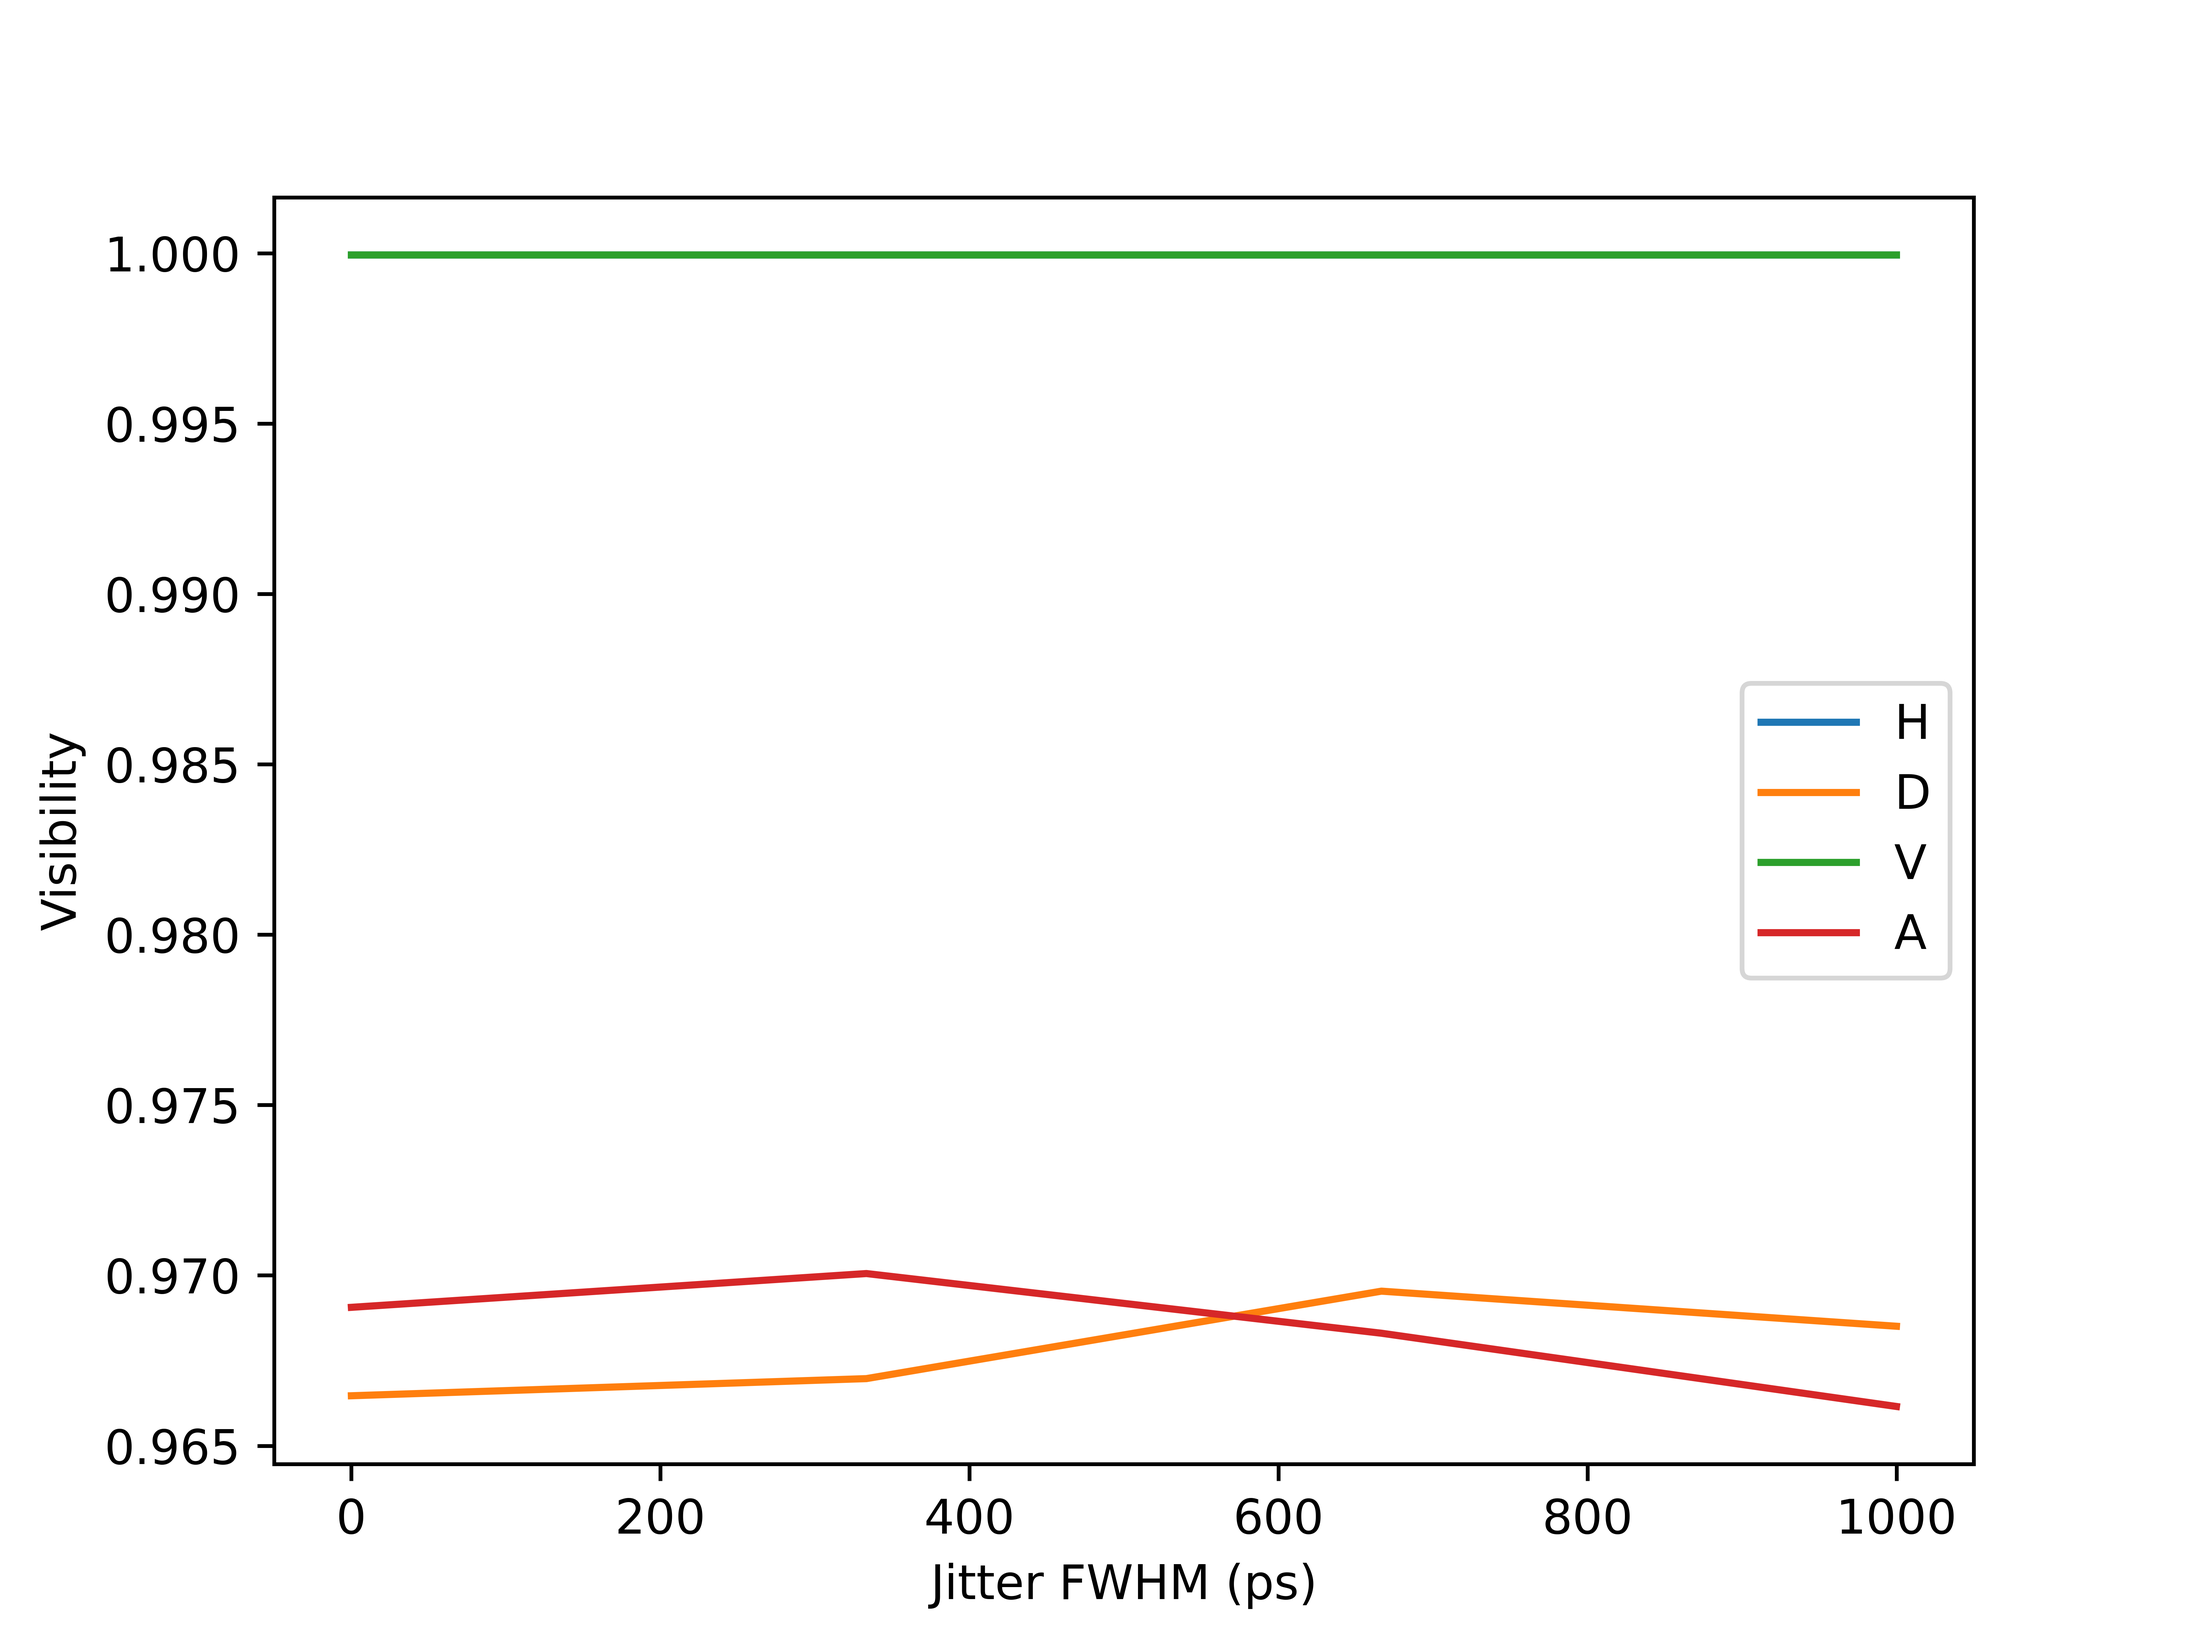
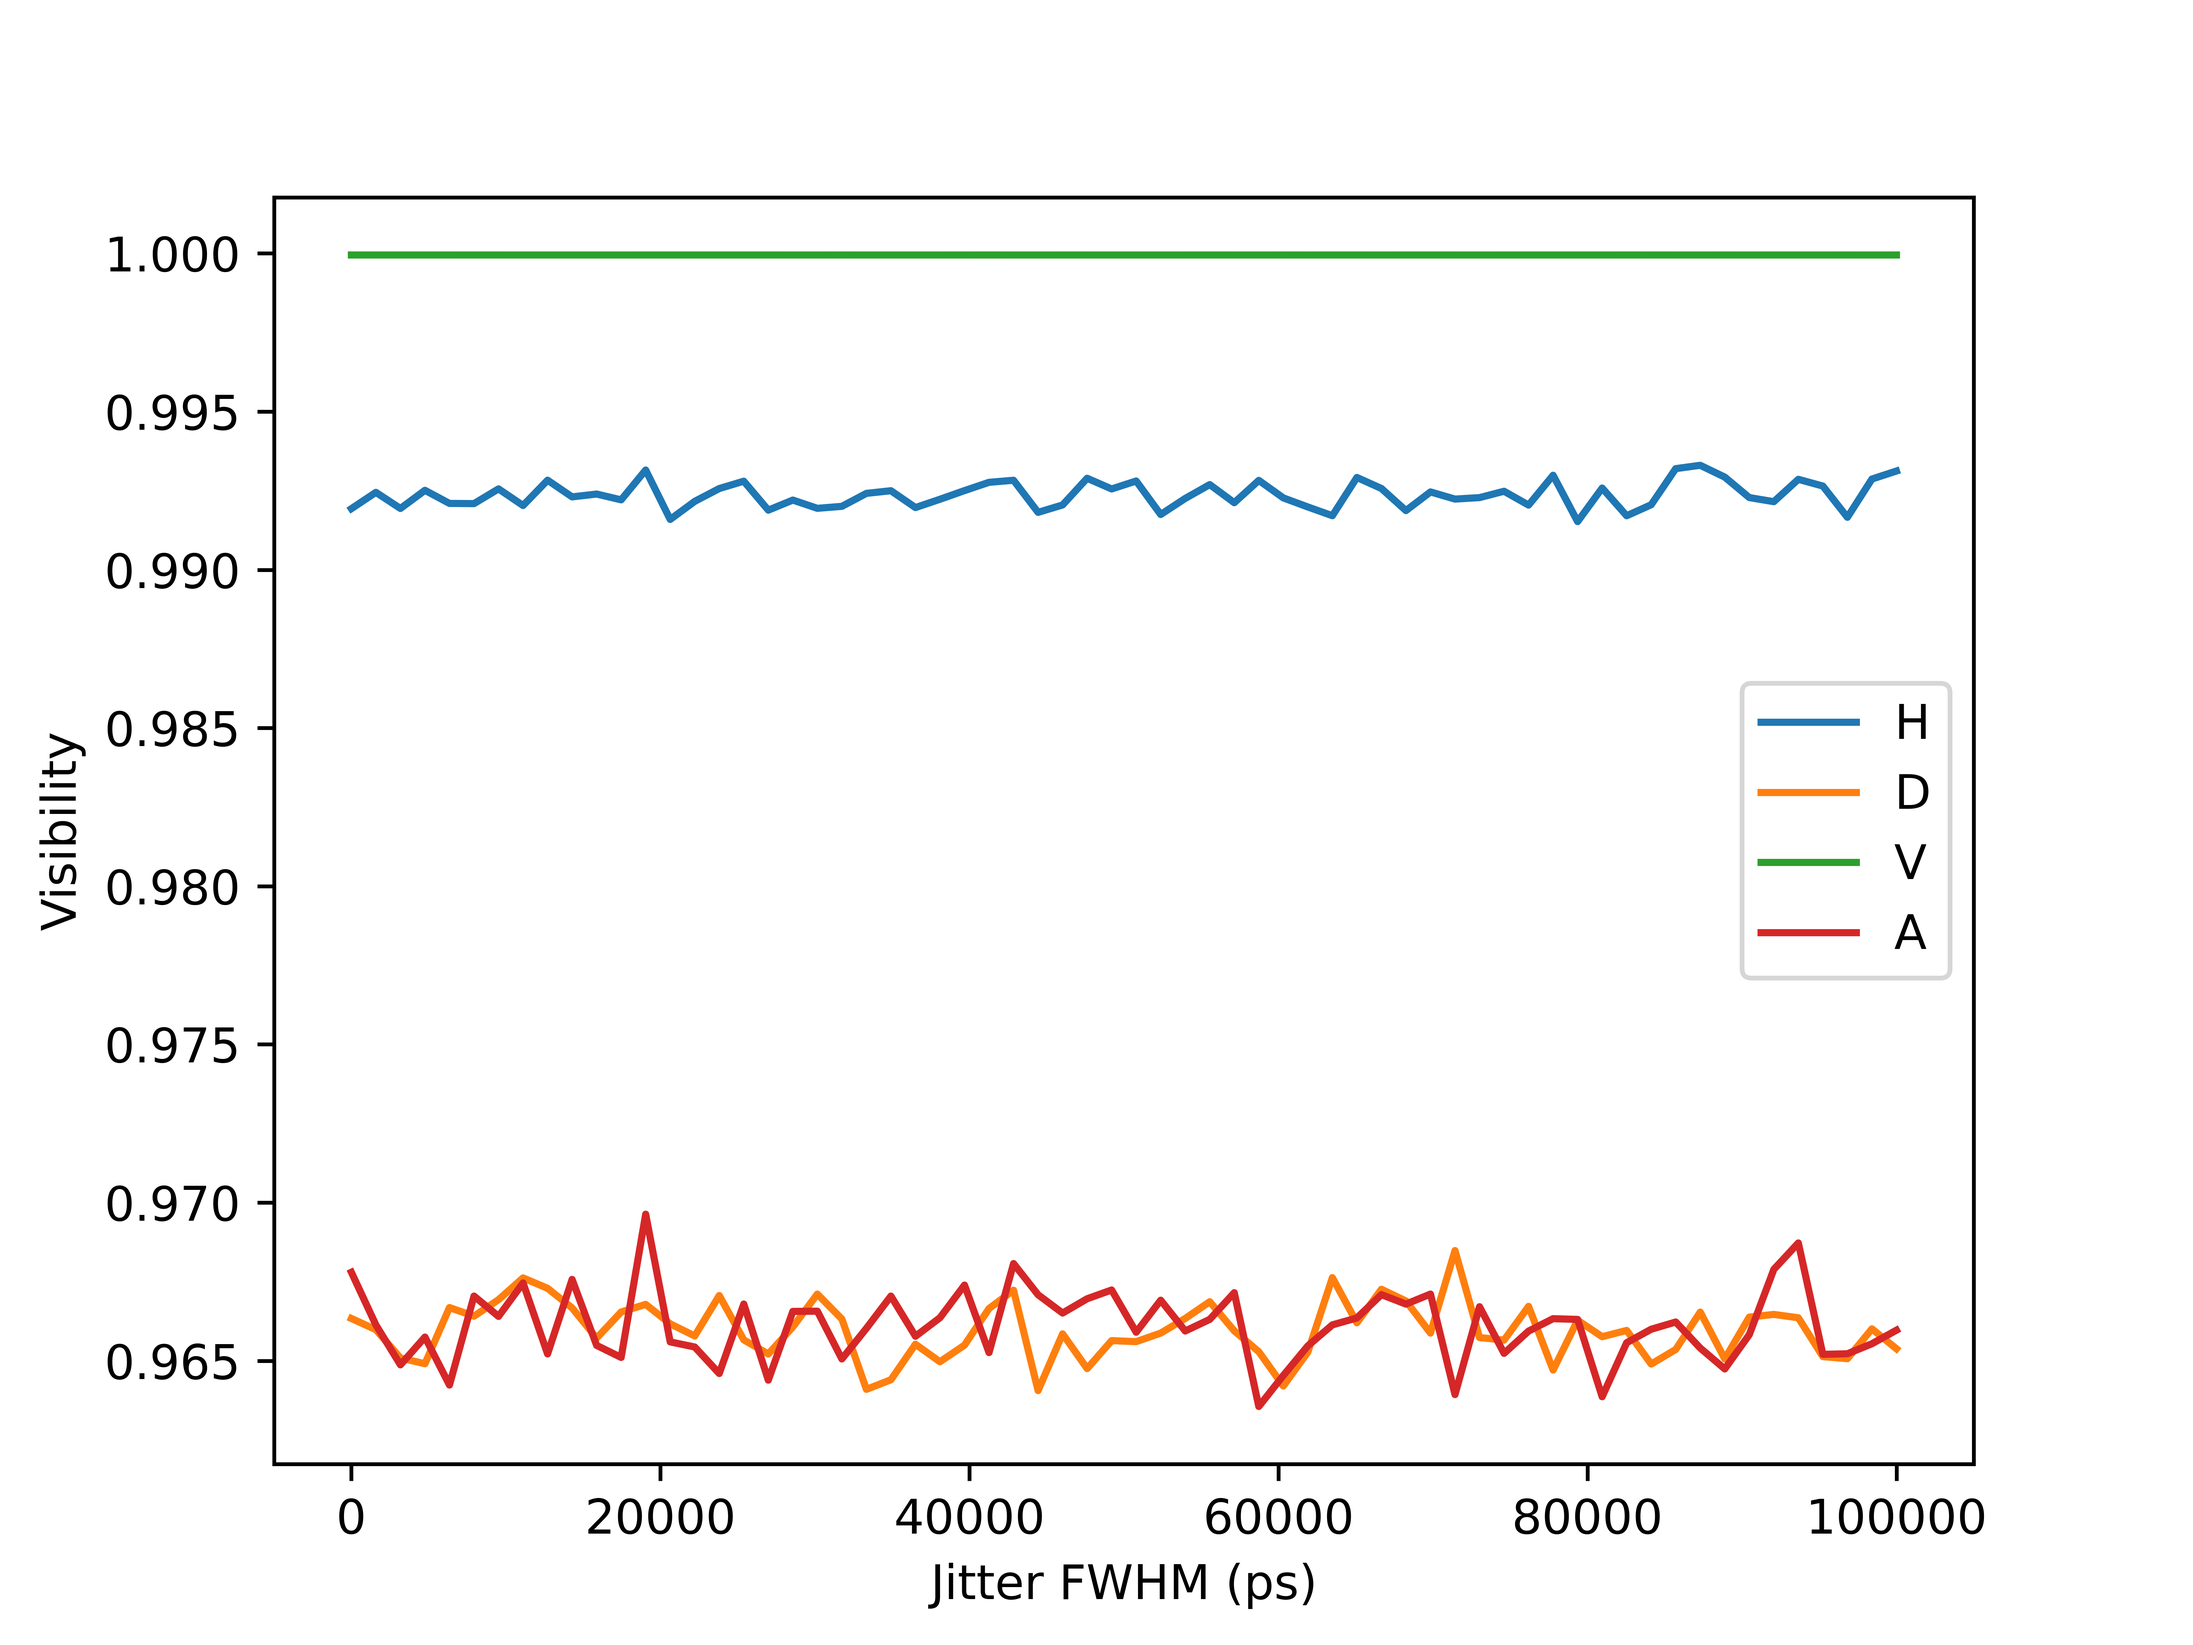
fixed the progress bar for plotting and added new plots

diff --git a/simulations_with_practical_issues/plot.py b/simulations_with_practical_issues/plot.py
@@ -1,7 +1,9 @@
-from simulations_with_practical_issues.Rotation import Rotation
+from Rotation import Rotation
 import numpy as np
 import math
 import matplotlib.pyplot as plt
+from alive_progress import alive_bar
+
 
 rotations = 50
 states = ['H', 'D', 'V', 'A']
@@ -16,13 +18,15 @@ def plot_visibility_darkcounts(start, stop, num_points):
     delta = .25
     entangled_state = [1 / math.sqrt(2), 0, 0, np.exp(1j * delta) / math.sqrt(2)]
 
-    for dc in x_val:
-        sim = Rotation('config.yaml', entangled_state, rotations)
-        sim.set_dc_rate(dc)
-        sim.run()
-        visibility = sim.get_visibility()
-        for i in range(4):
-            y_val[i].append(visibility[i])
+    with alive_bar(len(x_val), force_tty=True) as bar:
+        for dc in x_val:
+            sim = Rotation('config.yaml', entangled_state, rotations)
+            sim.set_dc_rate(dc)
+            sim.run(progress_bar=False)
+            visibility = sim.get_visibility()
+            for i in range(4):
+                y_val[i].append(visibility[i])
+            bar()
 
     for i in range(4):
         plt.plot(x_val, y_val[i], label=states[i])
@@ -38,13 +42,15 @@ def plot_visibility_phasediff(start, stop, num_points):
     x_val = np.linspace(start, stop, num_points)
     y_val = [[], [], [], []]
 
-    for delta in x_val:
-        entangled_state = [1 / math.sqrt(2), 0, 0, np.exp(1j * delta) / math.sqrt(2)]
-        sim = Rotation('config.yaml', entangled_state, rotations)
-        sim.run()
-        visibility = sim.get_visibility()
-        for i in range(4):
-            y_val[i].append(visibility[i])
+    with alive_bar(len(x_val), force_tty=True) as bar:
+        for delta in x_val:
+            entangled_state = [1 / math.sqrt(2), 0, 0, np.exp(1j * delta) / math.sqrt(2)]
+            sim = Rotation('config.yaml', entangled_state, rotations)
+            sim.run(progress_bar=False)
+            visibility = sim.get_visibility()
+            for i in range(4):
+                y_val[i].append(visibility[i])
+            bar()
 
     for i in range(4):
         plt.plot(x_val, y_val[i], label=states[i])
@@ -64,14 +70,16 @@ def plot_visibility_loss(start, stop, num_points):
     delta = .25
     entangled_state = [1 / math.sqrt(2), 0, 0, np.exp(1j * delta) / math.sqrt(2)]
 
-    for loss in x_val:
-        sim = Rotation('config.yaml', entangled_state, rotations)
-        sim.set_loss_signal(loss)
-        sim.set_loss_idler(loss)
-        sim.run()
-        visibility = sim.get_visibility()
-        for i in range(4):
-            y_val[i].append(visibility[i])
+    with alive_bar(len(x_val), force_tty=True) as bar:
+        for loss in x_val:
+            sim = Rotation('config.yaml', entangled_state, rotations)
+            sim.set_loss_signal(loss)
+            sim.set_loss_idler(loss)
+            sim.run(progress_bar=False)
+            visibility = sim.get_visibility()
+            for i in range(4):
+                y_val[i].append(visibility[i])
+            bar()
 
     for i in range(4):
         plt.plot(x_val, y_val[i], label=states[i])
@@ -91,13 +99,15 @@ def plot_visibility_jitter(start, stop, num_points):
     delta = .25
     entangled_state = [1 / math.sqrt(2), 0, 0, np.exp(1j * delta) / math.sqrt(2)]
 
-    for jitter in x_val:
-        sim = Rotation('config.yaml', entangled_state, rotations)
-        sim.set_jitter(jitter)
-        sim.run()
-        visibility = sim.get_visibility()
-        for i in range(4):
-            y_val[i].append(visibility[i])
+    with alive_bar(len(x_val), force_tty=True) as bar:
+        for jitter in x_val:
+            sim = Rotation('config.yaml', entangled_state, rotations)
+            sim.set_jitter(jitter)
+            sim.run(progress_bar=False)
+            visibility = sim.get_visibility()
+            for i in range(4):
+                y_val[i].append(visibility[i])
+            bar()
 
     for i in range(4):
         plt.plot(x_val, y_val[i], label=states[i])
@@ -116,13 +126,15 @@ def plot_visibility_deadtime(start, stop, num_points):
     delta = .25
     entangled_state = [1 / math.sqrt(2), 0, 0, np.exp(1j * delta) / math.sqrt(2)]
 
-    for deadtime in x_val:
-        sim = Rotation('config.yaml', entangled_state, rotations)
-        sim.set_deadtime(deadtime)
-        sim.run()
-        visibility = sim.get_visibility()
-        for i in range(4):
-            y_val[i].append(visibility[i])
+    with alive_bar(len(x_val), force_tty=True) as bar:
+        for deadtime in x_val:
+            sim = Rotation('config.yaml', entangled_state, rotations)
+            sim.set_deadtime(deadtime)
+            sim.run(progress_bar=False)
+            visibility = sim.get_visibility()
+            for i in range(4):
+                y_val[i].append(visibility[i])
+            bar()
 
     for i in range(4):
         plt.plot(x_val, y_val[i], label=states[i])
@@ -134,8 +146,8 @@ def plot_visibility_deadtime(start, stop, num_points):
 
 
 if __name__ == '__main__':
-    # plot_visibility_darkcounts(0, 100000, 4)
-    plot_visibility_phasediff(start=0, stop=2*math.pi, num_points=32)
+    # plot_visibility_darkcounts(0, 1000000, 4)
+    # plot_visibility_phasediff(start=0, stop=2*math.pi, num_points=64)
     # plot_visibility_loss(0, 1, 4)
-    # plot_visibility_jitter(0, 1000, 4)
-    # plot_visibility_deadtime(0, 1000000, 4)
+    # plot_visibility_jitter(0, 100000, 64)
+    plot_visibility_deadtime(0, 1000000, 4)

diff --git a/simulations_with_practical_issues/Rotation.py b/simulations_with_practical_issues/Rotation.py
@@ -1,4 +1,4 @@
-from simulations_with_practical_issues.Simulator import Simulator
+from Simulator import Simulator
 import math
 import numpy as np
 from qiskit import *
@@ -7,7 +7,7 @@ from alive_progress import alive_bar
 import matplotlib.pyplot as plt
 import yaml
 
-states = ['H', 'D', 'V', 'A']
+states = ('H', 'D', 'V', 'A')
 
 
 class Rotation:
@@ -34,36 +34,40 @@ class Rotation:
         self.y_val = [[], [], [], []]
         self.state = ''
 
-    def run(self):
-
+    def run(self, progress_bar=True):
         qc = QuantumCircuit(2, 2)
-        with alive_bar(4 * self.rotations, force_tty=True) as bar:
+        if progress_bar:
+            bar = alive_bar(4 * self.rotations, force_tty=True)
 
-            for i in range(4):
+        for i in range(4):
 
-                for j in range(self.rotations):
-                    # build the circuit
-                    qc.clear()
-                    qc = QuantumCircuit(2, 2)
+            for j in range(self.rotations):
+                # build the circuit
+                qc.clear()
+                qc = QuantumCircuit(2, 2)
 
-                    qc.initialize(self.entangled_state, [0, 1])
+                qc.initialize(self.entangled_state, [0, 1])
 
-                    # keep  A the same, and rotate B
-                    qc.ry(i * math.pi / 2, 0)
-                    delta = 4 * j * math.pi / self.rotations
-                    qc.ry(delta, 1)
-                    pr_00 = abs(Statevector(qc)[0]) ** 2
-                    if i + j == 0:
-                        self.state = Statevector(qc).draw(output='latex_source')
+                # keep  A the same, and rotate B
+                qc.ry(i * math.pi / 2, 0)
+                delta = 4 * j * math.pi / self.rotations
+                qc.ry(delta, 1)
+                pr_00 = abs(Statevector(qc)[0]) ** 2
+                if i + j == 0:
+                    self.state = Statevector(qc).draw(output='latex_source')
 
-                    sim = Simulator(pr_00, 'config.yaml')
-                    sim.run()
-                    self.y_val[i].append(sim.get_coincidences())
+                sim = Simulator(pr_00, 'config.yaml')
+                sim.run()
+                self.y_val[i].append(sim.get_coincidences())
 
-                    if i == 0:
-                        self.x_val.append(delta)
+                if i == 0:
+                    self.x_val.append(delta)
 
+                if progress_bar:
                     bar()
+
+        if progress_bar:
+            bar.close()
 
     def get_visibility(self):
 
@@ -113,6 +117,6 @@ if __name__ == '__main__':
     d = .25
     state = [1 / math.sqrt(2), 0, 0, np.exp(1j * d) / math.sqrt(2)]
     a = Rotation('config.yaml', state, 200)
-    a.run()
+    a.run(progress_bar=False)
     print(a.get_visibility())
     a.plot_correlation()
